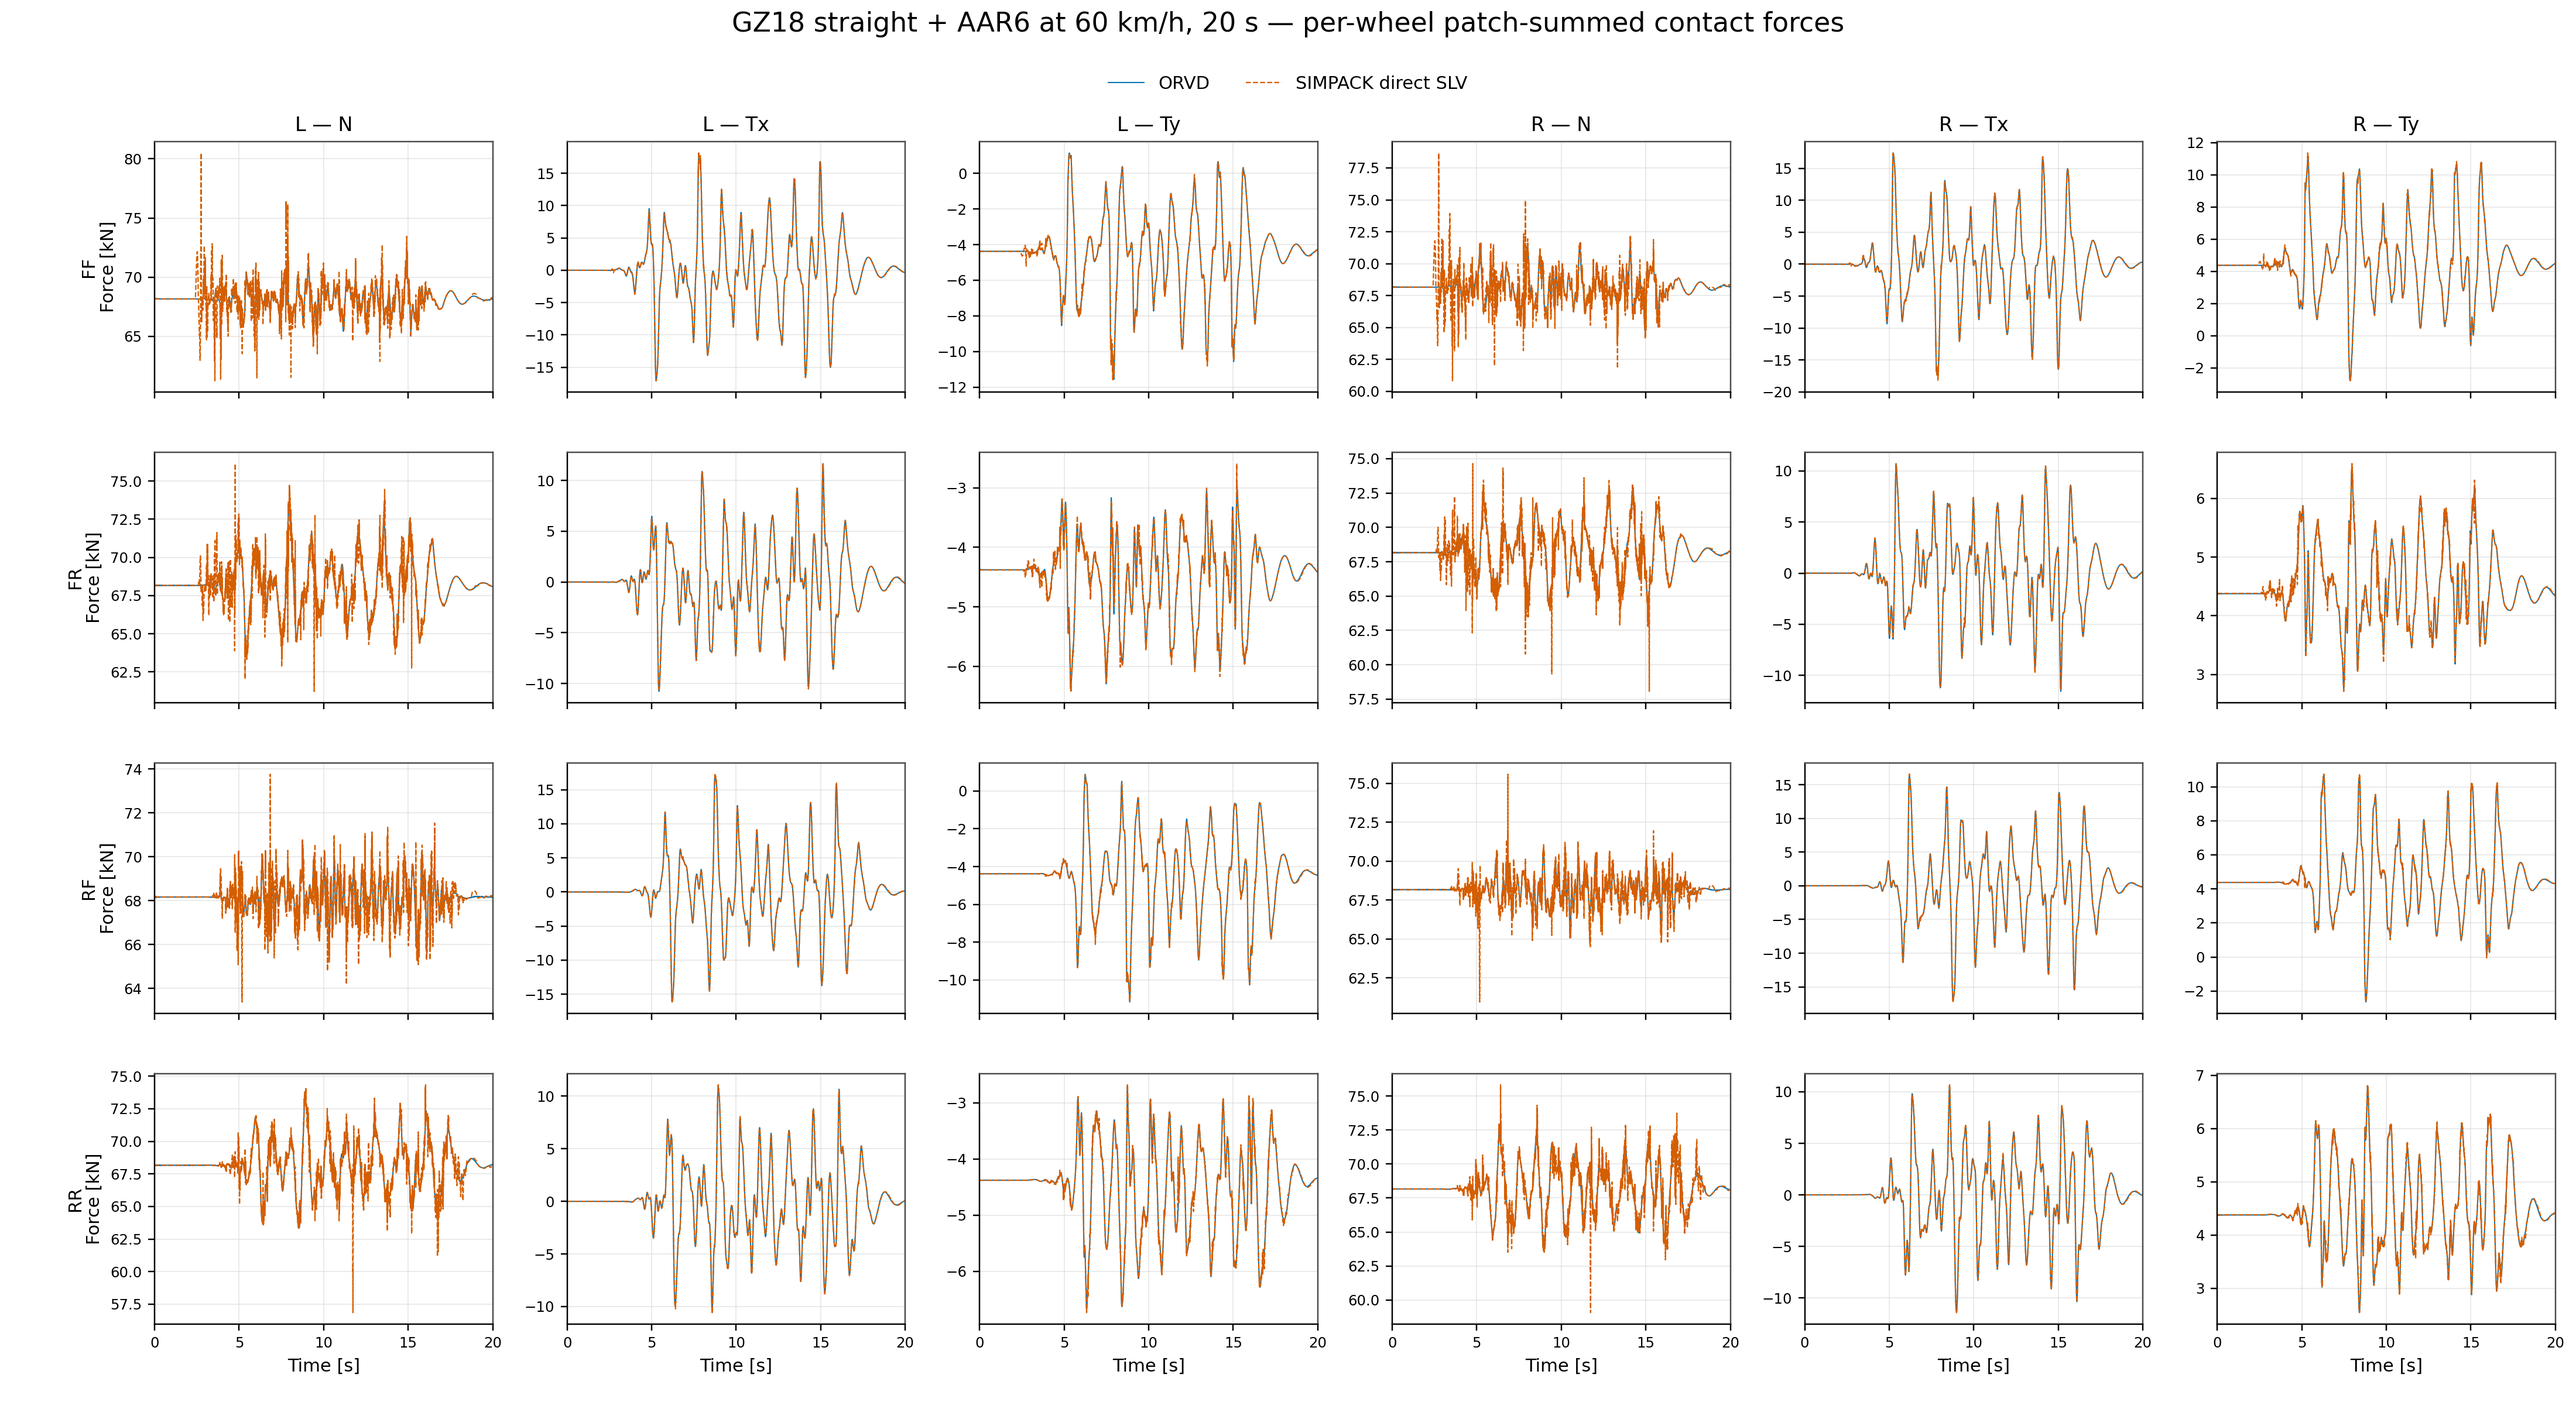
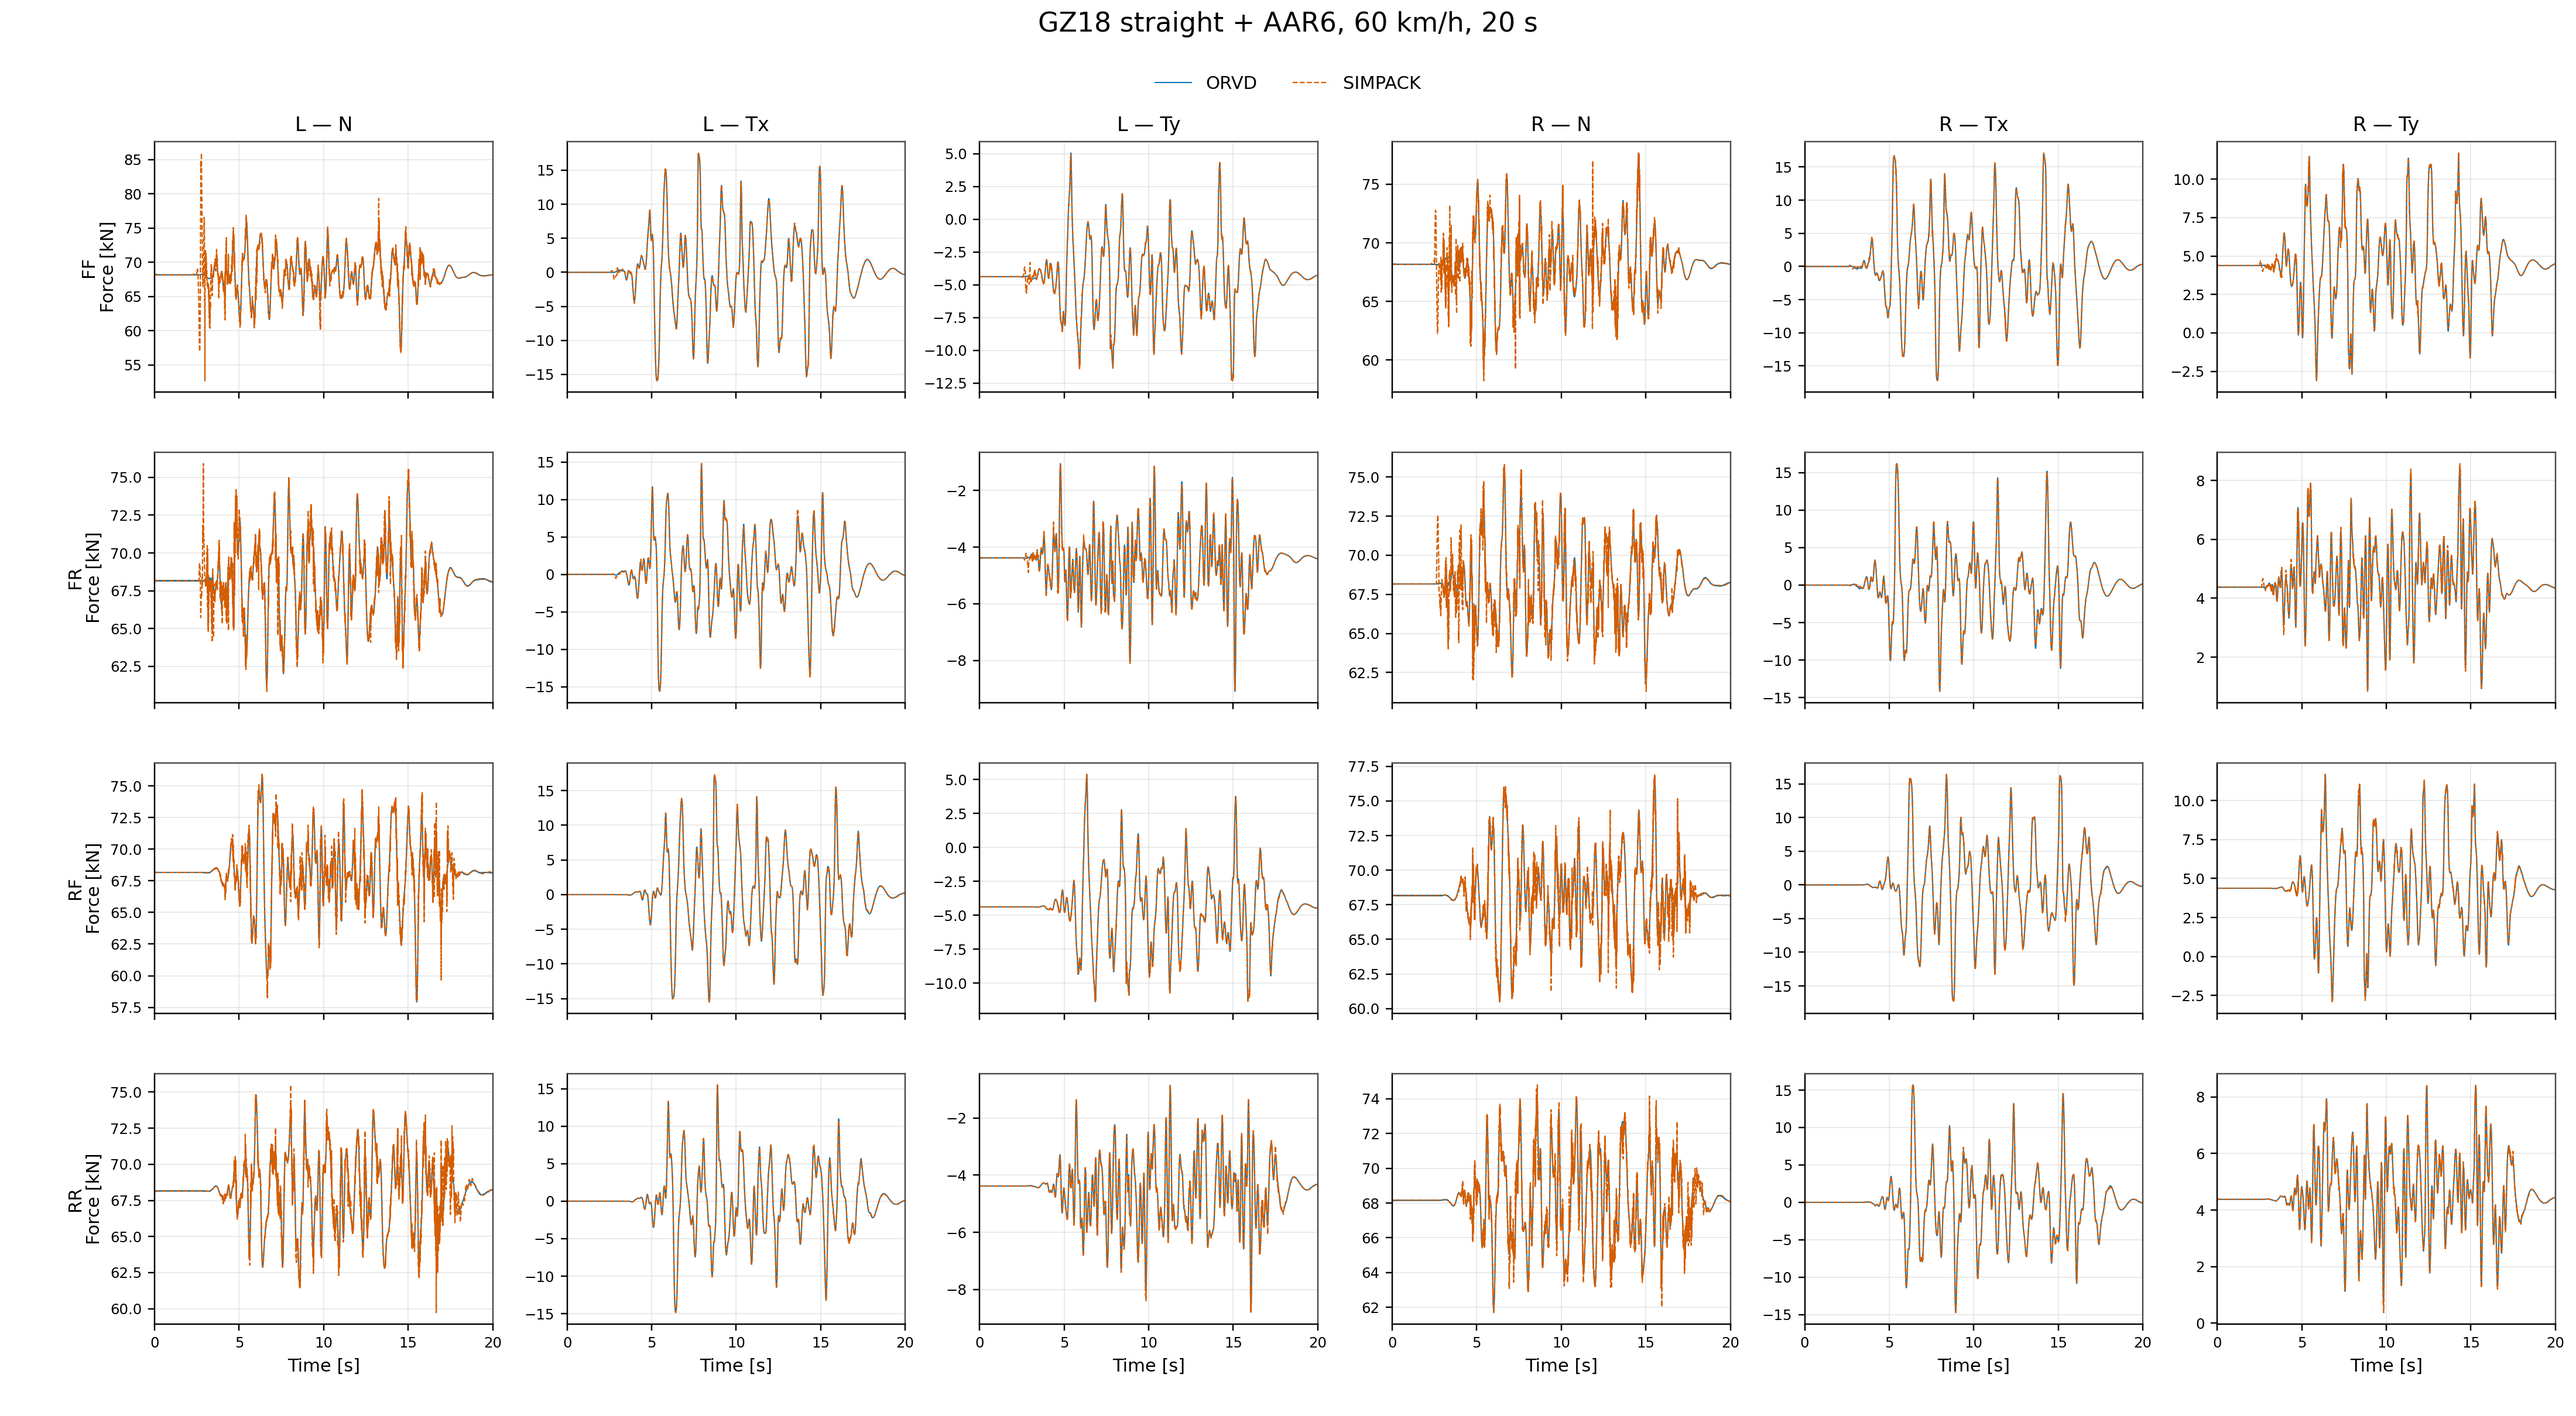
docs(readme): 更新整窗对比与图件收录范围 / update full-window comparisons and figure tracking
更新双语首页的四通道不平顺对比结果：GZ18 直线 AAR6 保留 20 s，GZ18 R300、IRW 被动及受控 R300 扩展至 50 s。替换八张响应图与运动学、轮轨力差值表，IRW 首图展示零转矩被动响应，受控结果收于展开区域。

忽略 BIN 与 PNG 工件，仅显式收录 README 直接引用的九张 PNG。取消跟踪六张已替换的旧图，保留本地文件。

四组双语表格逐项对应已有结果汇总，八张图与运行产物逐字节一致；215 处本地文档链接、图件收录范围及暂存差异检查通过。

Update the bilingual homepage's four-channel irregularity comparisons. Retain the 20-second GZ18 tangent-track AAR6 case and extend the GZ18 R300 and passive and controlled IRW R300 cases to 50 seconds. Replace eight response figures and the kinematic and wheel–rail force difference tables. Lead the IRW section with the zero-torque passive response and place the controlled results in the expanded section.

Ignore BIN and PNG artifacts, explicitly retaining only the nine PNGs directly referenced by READMEs. Stop tracking six superseded figures while retaining their local copies.

Verify all four bilingual comparison rows against the saved result summaries and all eight figures byte for byte against their run artifacts. Pass checks for 215 local documentation links, the tracked-figure scope and the staged diff.

diff --git a/README.md b/README.md
@@ -47,15 +47,15 @@ SIMPACK serves as the vehicle-level reference. Wheel–rail forces are summed pe
 | Vehicle | Mechanical topology | Case | Reference solver |
 |---|---|---|---|
 | GZ18 | 17 bodies, four rigid wheelsets | Tangent track + AAR6, 60 km/h, 20 s | SIMPACK Time Integration with Measurements |
-| GZ18 | 17 bodies, four rigid wheelsets | R300 + AAR5, 60 km/h, 16 s | SIMPACK Time Integration with Measurements |
-| IRW | Four axle bridges, eight independently rotating wheels | R300 + AAR5, zero-torque passive, 60 km/h, 30 s | SIMPACK Time Integration with Measurements |
-| IRW | Four axle bridges, eight independently rotating wheels | R300 + AAR5, 100 Hz full-state controlled, 60 km/h, 30 s | SIMPACK Realtime |
+| GZ18 | 17 bodies, four rigid wheelsets | R300 + AAR5, 60 km/h, 50 s | SIMPACK Time Integration with Measurements |
+| IRW | Four axle bridges, eight independently rotating wheels | R300 + AAR5, zero-torque passive, 60 km/h, 50 s | SIMPACK Time Integration with Measurements |
+| IRW | Four axle bridges, eight independently rotating wheels | R300 + AAR5, 100 Hz full-state controlled, 60 km/h, 50 s | SIMPACK Realtime |
 
 ### GZ18: rigid-wheelset vehicle
 
-The 109-dimensional continuous state of GZ18 covers the carbody, two bogie frames, four rigid wheelsets, the suspension force elements and eight wheel–rail contacts. After entering the R300 curve, the steady offset, the difference between the leading and trailing bogies and the response to the AAR5 excitation agree on all four wheelsets, which shows that track geometry, superelevation, profiles and vehicle dynamics close in one time series.
+The 109-dimensional continuous state of GZ18 covers the carbody, two bogie frames, four rigid wheelsets, the suspension force elements and eight wheel–rail contacts. The figure shows lateral and yaw responses of all four wheelsets through the initial tangent, entry transition, circular curve, exit transition and final tangent.
 
-![GZ18 R300 AAR5 16 s wheelset lateral displacement and yaw comparison](docs/figures/gz18/gz18_r300_aar5_16s_wheelset_response.png)
+![GZ18 R300 AAR5 50 s wheelset lateral displacement and yaw comparison](docs/figures/gz18/gz18_r300_aar5_50s_wheelset_response.png)
 
 <details>
 <summary><strong>Expand: GZ18 tangent-track case, accuracy overview and all-wheel three-component wheel–rail forces</strong></summary>
@@ -68,10 +68,8 @@ The 109-dimensional continuous state of GZ18 covers the carbody, two bogie frame
 
 | Case | Lateral (µm) | Yaw (µrad) | `N` (kN) | `Tx` (kN) | `Ty` (kN) |
 |---|---:|---:|---:|---:|---:|
-| Tangent track + AAR6 | `15.16–19.02 / 66.08` | `5.20–6.57 / 33.38` | `0.654 / 12.320` | `0.080 / 1.617` | `0.055 / 1.348` |
-| R300 + AAR5 | `7.43–8.94 / 56.76` | `3.73–5.46 / 40.44` | `0.540 / 22.372` | `0.105 / 4.128` | `0.115 / 4.881` |
-
-The maximum force differences of the R300 case concentrate in point-like wheel–rail force spikes during the AAR5 fade-in; the RMS values show that the main response over the full series stays within sub-kilonewton differences.
+| Tangent track + AAR6 | `14.01–22.00 / 126.43` | `5.44–6.58 / 36.48` | `0.669 / 17.702` | `0.094 / 1.607` | `0.059 / 1.274` |
+| R300 + AAR5 | `26.16–33.78 / 187.47` | `13.16–15.54 / 132.02` | `0.798 / 44.230` | `0.184 / 8.353` | `0.166 / 10.623` |
 
 **All-wheel three-component wheel–rail forces**
 
@@ -81,41 +79,35 @@ Tangent track + AAR6:
 
 R300 + AAR5:
 
-![GZ18 R300 AAR5 16 s all-wheel three-component wheel–rail force comparison](docs/figures/gz18/gz18_r300_aar5_16s_wheel_force_response.png)
+![GZ18 R300 AAR5 50 s all-wheel three-component wheel–rail force comparison](docs/figures/gz18/gz18_r300_aar5_50s_wheel_force_response.png)
 
 </details>
 
 ### IRW: independently rotating wheel vehicle
 
-The 157-dimensional continuous state of IRW contains four axle bridges and eight independently rotating wheels. Without the wheel-speed constraint of a rigid wheelset, the flange–rail boundary, track irregularity and active wheel-speed guidance form dynamic modes that differ markedly from a conventional wheelset vehicle. With full-state wheel-speed guidance and torque shaping engaged on the same vehicle, the figure shows the axle-bridge lateral and yaw response under 100 Hz closed-loop control.
+The 157-dimensional continuous state of IRW contains four axle bridges and eight independently rotating wheels. No drive torque is applied to any wheel throughout the run. The figure shows the axle-bridge lateral and yaw response on the R300 curve under AAR5 excitation.
 
-![IRW 100 Hz controlled 30 s axle-bridge lateral displacement and yaw comparison](docs/figures/irw/irw_r300_aar5_full_state_controlled_30s_axlebridge_response.png)
+![IRW R300 AAR5 passive 50 s axle-bridge lateral displacement and yaw comparison](docs/figures/irw/irw_r300_aar5_50s_axlebridge_response.png)
 
 <details>
-<summary><strong>Expand: IRW zero-torque passive case, accuracy overview and all-wheel three-component wheel–rail forces</strong></summary>
+<summary><strong>Expand full comparison</strong></summary>
 
-**Zero-torque passive run**: no drive torque is applied to any of the eight wheels throughout. The figure shows the axle-bridge lateral and yaw response of the independently rotating wheels on the R300 curve under AAR5 excitation, and how closely ORVD and SIMPACK reproduce the natural evolution.
+**Zero-torque passive: wheel–rail forces**
 
-![IRW R300 AAR5 passive 30 s axle-bridge lateral displacement and yaw comparison](docs/figures/irw/irw_r300_aar5_30s_axlebridge_response.png)
+![IRW R300 AAR5 passive 50 s all-wheel three-component wheel–rail force comparison](docs/figures/irw/irw_r300_aar5_50s_wheel_force_response.png)
+
+**100 Hz full-state control**: the vehicle uses full-state wheel-speed guidance and torque shaping.
+
+![IRW 100 Hz controlled 50 s axle-bridge lateral displacement and yaw comparison](docs/figures/irw/irw_r300_aar5_full_state_controlled_50s_axlebridge_response.png)
+
+![IRW 100 Hz controlled 50 s all-wheel three-component wheel–rail force comparison](docs/figures/irw/irw_r300_aar5_full_state_controlled_50s_wheel_force_response.png)
 
 **Accuracy overview**: each cell lists RMS / maximum difference; kinematic RMS values give the range over the four axle bridges.
 
 | Case | Lateral (mm) | Yaw (mrad) | `N` (kN) | `Tx` (kN) | `Ty` (kN) |
 |---|---:|---:|---:|---:|---:|
-| Zero-torque passive | `0.010–0.023 / 0.366` | `0.015–0.023 / 0.236` | `0.169 / 13.674` | `0.030 / 1.665` | `0.077 / 8.497` |
-| 100 Hz full-state controlled | `0.067–0.273 / 3.144` | `0.060–0.169 / 1.525` | `3.667 / 198.480` | `0.414 / 13.679` | `0.990 / 45.294` |
-
-In the zero-torque passive case the lateral and yaw RMS values stay within `0.023 mm` and `0.023 mrad`; in the closed-loop case the lateral and yaw responses also close axle by axle, while force spikes at discrete contact transitions still set the global maximum differences.
-
-**All-wheel three-component wheel–rail forces**
-
-Zero-torque passive:
-
-![IRW R300 AAR5 passive 30 s all-wheel three-component wheel–rail force comparison](docs/figures/irw/irw_r300_aar5_30s_wheel_force_response.png)
-
-100 Hz full-state controlled:
-
-![IRW 100 Hz controlled 30 s all-wheel three-component wheel–rail force comparison](docs/figures/irw/irw_r300_aar5_full_state_controlled_30s_wheel_force_response.png)
+| Zero-torque passive | `0.079–0.241 / 4.169` | `0.077–0.193 / 1.931` | `9.170 / 288.691` | `0.778 / 37.055` | `2.142 / 66.533` |
+| 100 Hz full-state controlled | `2.956–3.592 / 22.962` | `1.323–2.724 / 23.125` | `12.488 / 405.409` | `1.604 / 37.934` | `4.880 / 93.233` |
 
 </details>
 
